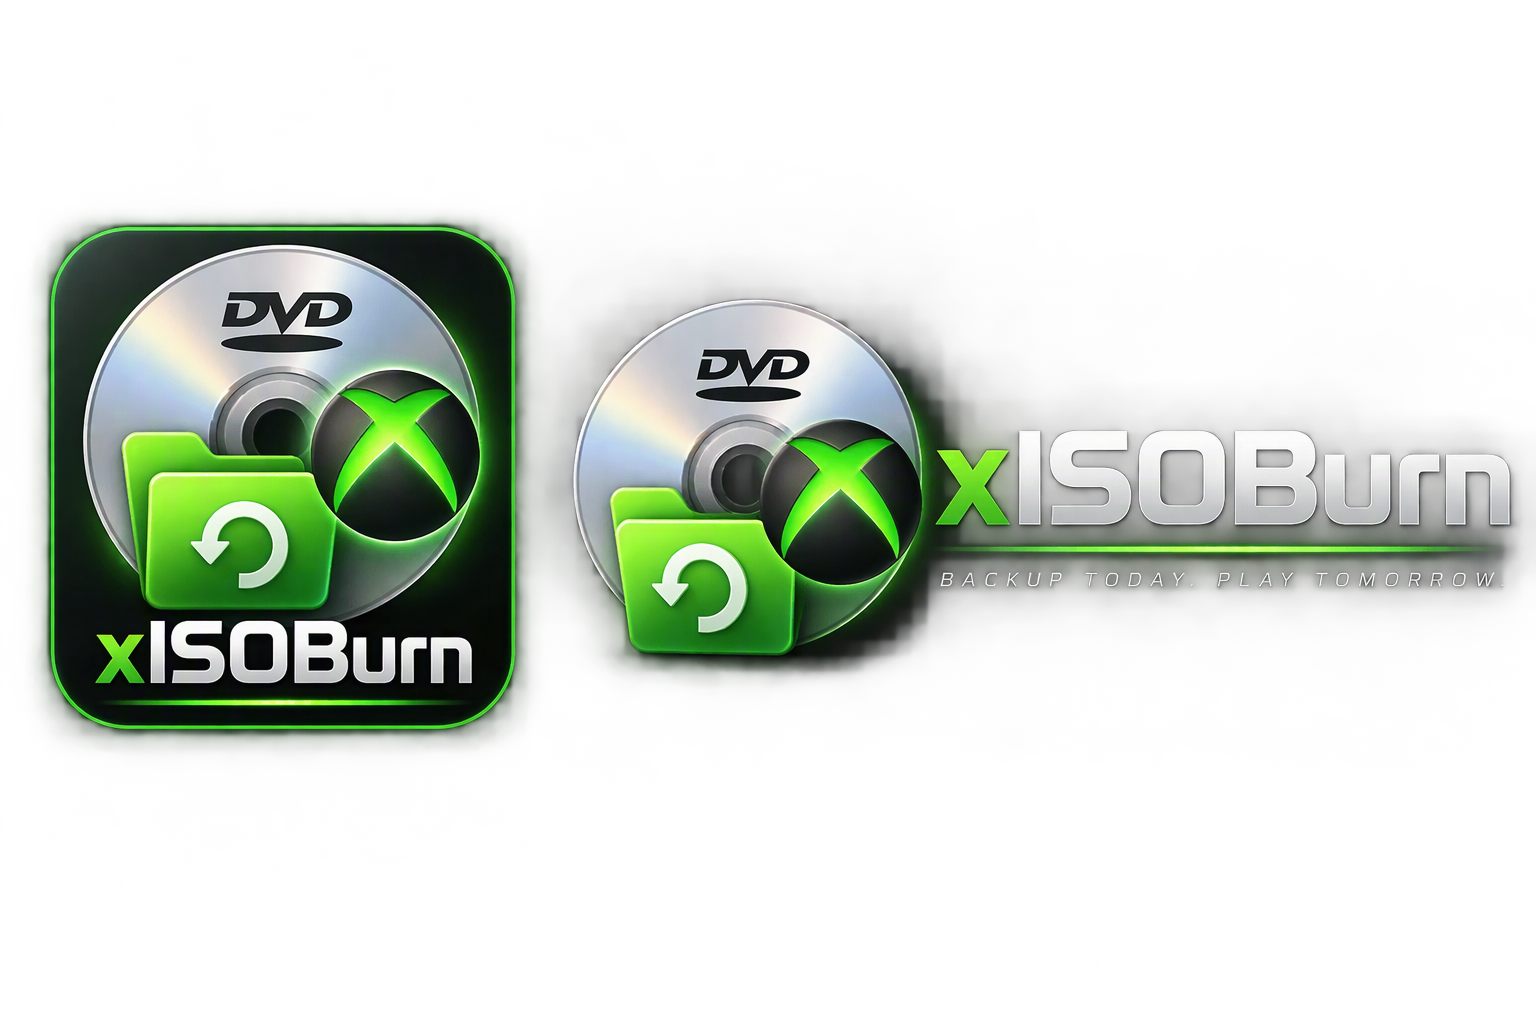
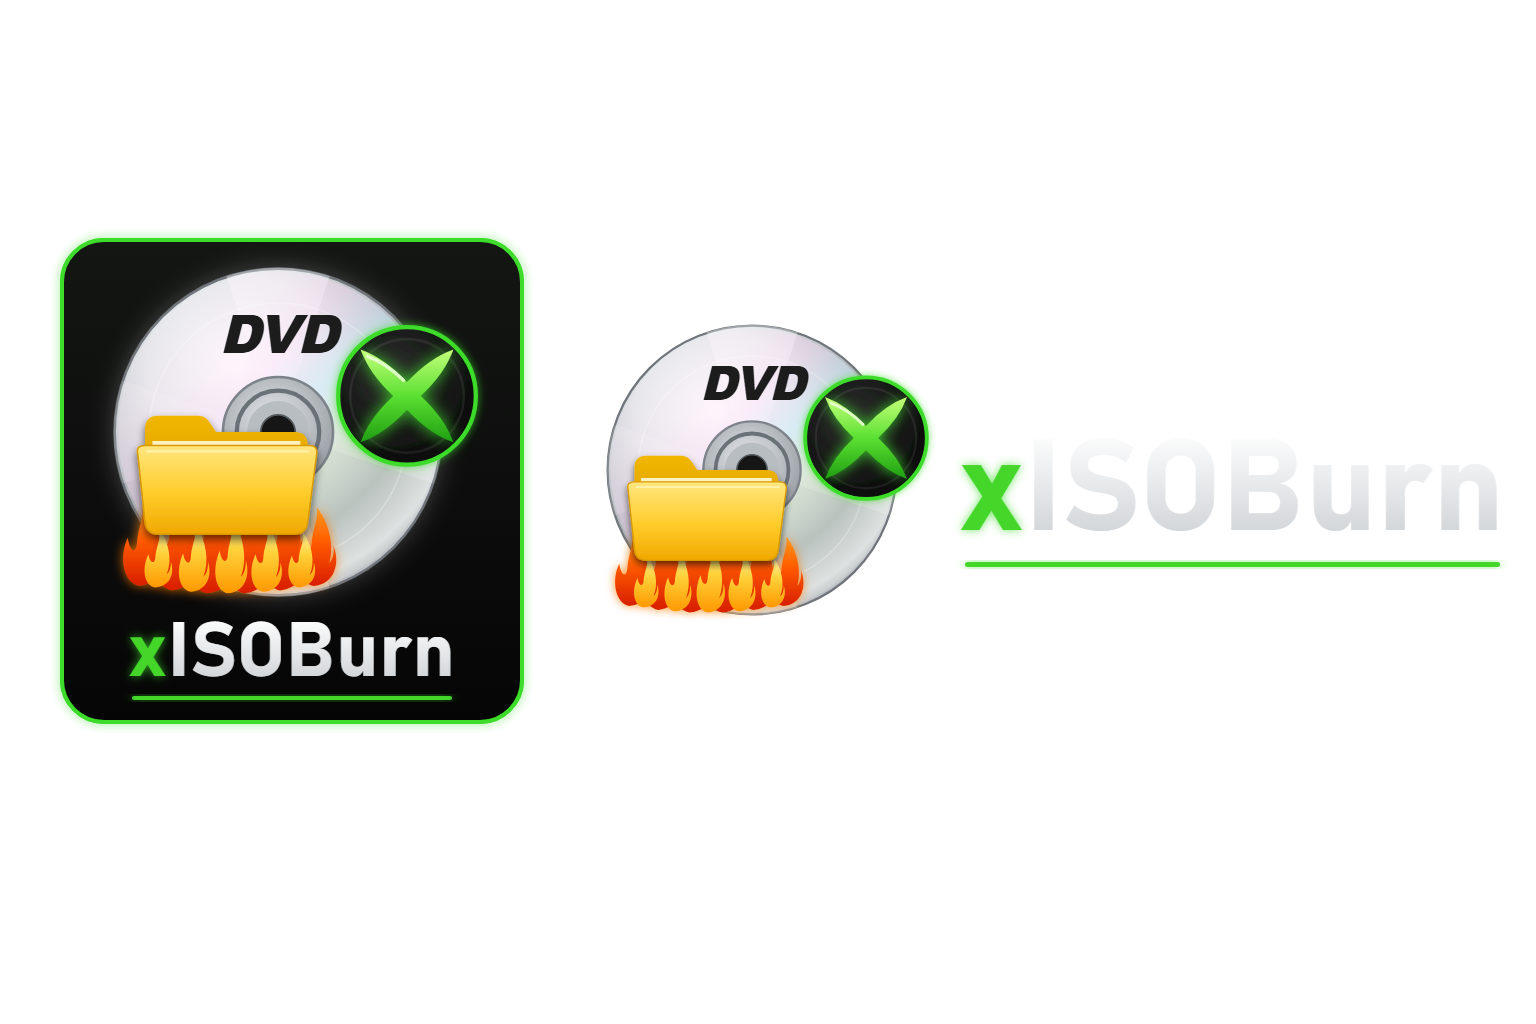
New artwork, download fix on the web page, GitHub releases
Artwork:
- designer.svg is the new editable source: a stylized green X with
  curved arms instead of the Xbox orb, a yellow folder with fire beneath
  it instead of the green folder, and no tagline in the logo
- xbox-app/tools/render-designer.ps1 renders it to designer.png with
  Edge headless (transparent background), and make-assets.ps1 rebuilds
  the package images, the in-app banner and the favicon from it

Download fix:
- Clicking ISO after the page sat for a while did nothing: the page's
  5 s reload could fire before the Xbox answered and cancel the
  download request
- An ISO click now shows the full-screen loading ("Starting the
  download...") and pauses the reload. The page adds ?dl=TOKEN, the
  server echoes it in a cookie with the download, and the page then
  hides the loading and resumes refreshing (60 s limit)

Releases:
- Every build of master publishes a GitHub release v1.0.N.0 with the
  .msix, Dependencies-x64.zip and xISOBurn.cer, and generated notes
- The build job gets contents: write for it; install.md and the README
  point to the Releases page

Changed region(s): [[0.0, 0.1875, 1.0, 0.75]]

diff --git a/xbox-app/xISOBurn/Core/WebServer.cs b/xbox-app/xISOBurn/Core/WebServer.cs
@@ -344,7 +344,13 @@ namespace xISOBurn.Core
                 long count = length == 0 ? 0 : end - start + 1;
                 string type = iso ? "application/octet-stream" : "text/plain; charset=utf-8";
                 string disposition = iso ? "attachment" : "inline";
+                // ?dl=TOKEN (added by the page's script when the ISO link is clicked): echo it in a cookie, so
+                // the page knows the download has started and can hide its loading and resume refreshing.
+                string token;
+                string dlCookie = req.Query.TryGetValue("dl", out token) && IsToken(token)
+                    ? "Set-Cookie: xbdl=" + token + "; Path=/; SameSite=Strict\r\n" : "";
                 string headers = "HTTP/1.1 " + (partial ? "206 Partial Content" : "200 OK") + "\r\n" +
+                                 dlCookie +
                                  "Content-Type: " + type + "\r\n" +
                                  "Content-Length: " + count + "\r\n" +
                                  (partial ? "Content-Range: bytes " + start + "-" + end + "/" + length + "\r\n" : "") +
@@ -533,7 +539,8 @@ namespace xISOBurn.Core
 
             string enc = Uri.EscapeDataString(name);
             var links = new StringBuilder();
-            links.Append("<a href=\"/files/").Append(Uri.EscapeDataString(file)).Append("\">ISO</a>");
+            // data-dl: the page's script follows this download (see BusyOverlay).
+            links.Append("<a data-dl=\"1\" href=\"/files/").Append(Uri.EscapeDataString(file)).Append("\">ISO</a>");
             if (File.Exists(Path.Combine(_folder, name + ".map")))
                 links.Append(" &middot; <a href=\"/files/").Append(enc).Append(".map\">map</a>");
             if (sha != null)
@@ -681,7 +688,7 @@ namespace xISOBurn.Core
             "d.addEventListener('toggle',function(){S.setItem('open_'+d.id,d.open?'1':'0')});});" +
             "var y=S.getItem('scrollY');if(y!==null)window.scrollTo(0,parseInt(y,10));" +
             "function tick(){" +
-            "if(window.xbBusy)return;" + // a form is being sent: the response replaces the page anyway
+            "if(window.xbBusy){setTimeout(tick,5000);return;}" + // a form or a download is on its way
             "var sel=window.getSelection?String(window.getSelection()):'';" +
             "if(sel.length>0){setTimeout(tick,5000);return;}" +
             "S.setItem('scrollY',String(window.scrollY));location.reload();}" +
@@ -696,17 +703,31 @@ namespace xISOBurn.Core
         private const string BusyOverlay =
             "<div id=\"busy\" role=\"status\" aria-live=\"polite\"><div class=\"spin\"></div><div id=\"busytext\"></div></div>" +
             "<script>(function(){" +
-            "var o=document.getElementById('busy'),t=document.getElementById('busytext');" +
+            "var o=document.getElementById('busy'),t=document.getElementById('busytext'),n=0;" +
+            "function hide(){n++;o.className='';o.onclick=null;window.xbBusy=false;}" +
+            // Shows the overlay; with no answer after 'wait' ms (app closed, network down) it says so and
+            // closes on a click. 'n' tells a stale timer from the current one.
+            "function show(text,wait){var my=++n;t.textContent=text;o.className='on';window.xbBusy=true;" +
+            "setTimeout(function(){if(my!==n)return;" +
+            "t.textContent='No answer from the Xbox. Is xISOBurn still open on the screen? Click to close.';" +
+            "o.onclick=hide;},wait);return my;}" +
             "document.addEventListener('submit',function(e){" +
             "if(e.defaultPrevented)return;" +
             "var b=e.submitter||e.target.querySelector('button');" +
-            "t.textContent=(b&&b.getAttribute('data-wait'))||e.target.getAttribute('data-wait')||'Sending to the Xbox...';" +
-            "o.className='on';window.xbBusy=true;" +
-            // No answer (app closed, network down): say so after 30 s and let a click close the overlay.
-            "setTimeout(function(){if(!window.xbBusy)return;" +
-            "t.textContent='No answer from the Xbox. Is xISOBurn still open on the screen? Click to close.';" +
-            "o.onclick=function(){o.className='';o.onclick=null;window.xbBusy=false;};},30000);});" +
-            "window.addEventListener('pageshow',function(){o.className='';window.xbBusy=false;});" +
+            "show((b&&b.getAttribute('data-wait'))||e.target.getAttribute('data-wait')||'Sending to the Xbox...',30000);});" +
+            // ISO links: a download does not replace the page, so the 5 s reload could cancel the request
+            // before the Xbox answers (the click then seemed ignored). Pause the reload and follow the
+            // download: the server echoes ?dl=TOKEN in the xbdl cookie once the download has started.
+            "document.addEventListener('click',function(e){" +
+            "var a=e.target.closest?e.target.closest('a[data-dl]'):null;" +
+            "if(!a||e.button!==0||e.ctrlKey||e.metaKey||e.shiftKey||e.altKey)return;" +
+            "e.preventDefault();" +
+            "var k=Date.now().toString(36)+Math.random().toString(36).slice(2,8);" +
+            "var my=show('Starting the download...',60000),iv=setInterval(function(){" +
+            "if(my!==n){clearInterval(iv);return;}" +
+            "if(document.cookie.indexOf('xbdl='+k)>=0){clearInterval(iv);hide();}},250);" +
+            "location.href=a.href+(a.href.indexOf('?')<0?'?':'&')+'dl='+k;});" +
+            "window.addEventListener('pageshow',hide);" +
             "})();</script>";
 
         private static string Shell(string body, bool autoRefresh)
@@ -734,6 +755,15 @@ namespace xISOBurn.Core
                    BusyOverlay +
                    (autoRefresh ? RefreshScript : "") +
                    "</body></html>";
+        }
+
+        /// <summary>The download token the page sends (?dl=): letters and digits only, so it is safe in a header.</summary>
+        private static bool IsToken(string s)
+        {
+            if (string.IsNullOrEmpty(s) || s.Length > 32) return false;
+            foreach (char c in s)
+                if (!((c >= '0' && c <= '9') || (c >= 'a' && c <= 'z') || (c >= 'A' && c <= 'Z'))) return false;
+            return true;
         }
 
         private static string Enc(string s)

diff --git a/README.md b/README.md
@@ -23,8 +23,8 @@ You only install the Xbox app; the PC needs nothing.
 
 ## Quick start
 
-1. **Build:** push to `master` (or run the **build** workflow by hand). GitHub Actions produces the
-   `xISOBurn-xbox-1.0.N.0` artifact.
+1. **Get it:** download the latest version from the repository's **Releases** page (each build of
+   `master` is published there), or build it on GitHub Actions.
 2. **Install:** put the console in Developer Mode, turn on the Device Portal, and install the `.msix`
    with its dependencies from the PC browser. Step by step: [docs/install.md](docs/install.md).
 3. **Copy:** open xISOBurn and insert the disc. Choose **Detect disc**, then **Copy / resume**. **B**
@@ -55,7 +55,7 @@ health check, and **Settings** opens the settings.
 | `xbox-app/xISOBurn/Core/` | Disc detection, multi-pass copy, sector map, settings, web server, disc scan |
 | `xbox-app/xISOBurn/Css/` | CSS: C# port of libdvdcss (cipher, tables, drive commands, session) |
 | `xbox-app/xISOBurn/Util/` | Logger and byte helpers |
-| `xbox-app/tools/make-assets.ps1` | Builds the package images from `designer.png` |
+| `designer.svg`, `xbox-app/tools/` | Artwork source; `render-designer.ps1` renders it to `designer.png` (with Edge), and `make-assets.ps1` builds the package images |
 | `.github/workflows/build.yml` | Build and packaging on GitHub Actions |
 
 ## Output

diff --git a/docs/install.md b/docs/install.md
@@ -3,7 +3,15 @@
 You don't need to install anything on your PC. GitHub Actions builds the app, and the Xbox Device
 Portal (a web page served by the console) installs it.
 
-## 1. Build (GitHub Actions)
+## 1. Get the package
+
+**Easiest: GitHub Releases.** Every build of `master` is published as a release (`v1.0.N.0`) on the
+repository's **Releases** page, with exactly the files the Device Portal needs:
+- `xISOBurn_1.0.N.0_x64.msix`: the app;
+- `Dependencies-x64.zip`: the three `.appx` dependencies (the .NET Native runtime and VCLibs). Unzip it first;
+- `xISOBurn.cer`: the public part of the signing certificate.
+
+**Or build it yourself** on GitHub Actions:
 
 1. Push to `master`, or start the workflow by hand: **Actions** tab → **build** → **Run workflow**.
 2. Wait for the **Xbox app (UWP x64)** job to finish. It takes 5–10 minutes because the .NET Native
